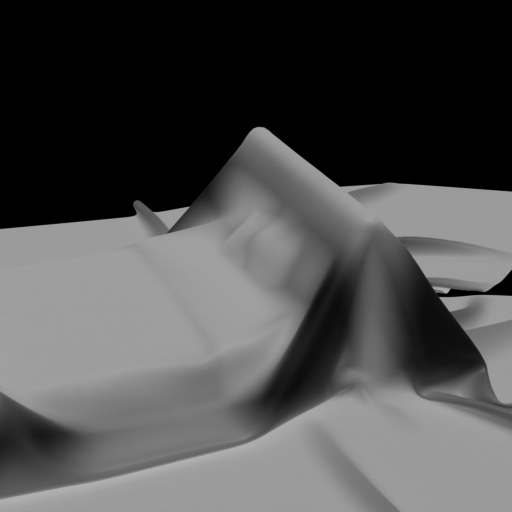
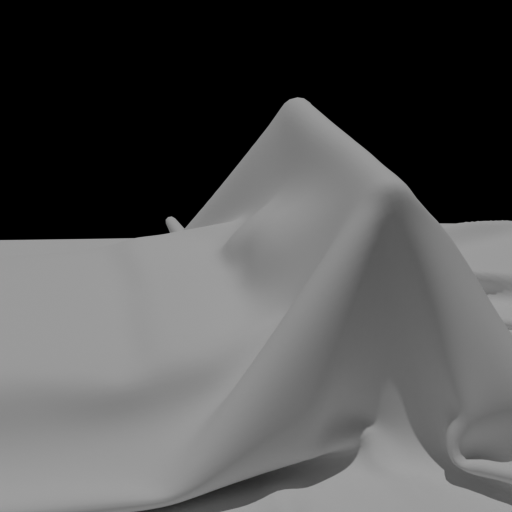
Fixed shadowing issue

diff --git a/part2/scripts/create_rendered_image.py b/part2/scripts/create_rendered_image.py
@@ -5,9 +5,9 @@ import math
 import random
 
 # Path to your OBJ file
-obj_path = 'D:/programmierte_programme/githubworkspace/comp_visual_perception_ws_23_24/part2/files/distance_mesh/9.obj'
-export_path = 'D:/programmierte_programme/githubworkspace/comp_visual_perception_ws_23_24/part2/files/images_cloth/9.png'
-is_distance_mesh = True
+obj_path = 'D:/programmierte_programme/githubworkspace/comp_visual_perception_ws_23_24/part2/files/distance_mesh/2.obj'
+export_path = 'D:/programmierte_programme/githubworkspace/comp_visual_perception_ws_23_24/part2/files/images_cloth/2.png'
+is_distance_mesh = False
 
 # Clear existing objects
 bpy.ops.object.select_all(action='SELECT')
@@ -50,6 +50,9 @@ scene.render.resolution_y = 512  # Set resolution height
 bpy.ops.object.light_add(type='SUN', radius=2, align='WORLD', location=(150, 150, 0))
 if is_distance_mesh:
     bpy.context.object.data.cycles.cast_shadow = False
+else:
+    bpy.context.object.cycles.shadow_terminator_offset = 0.1
+
 
 
 # Create and position the camera
